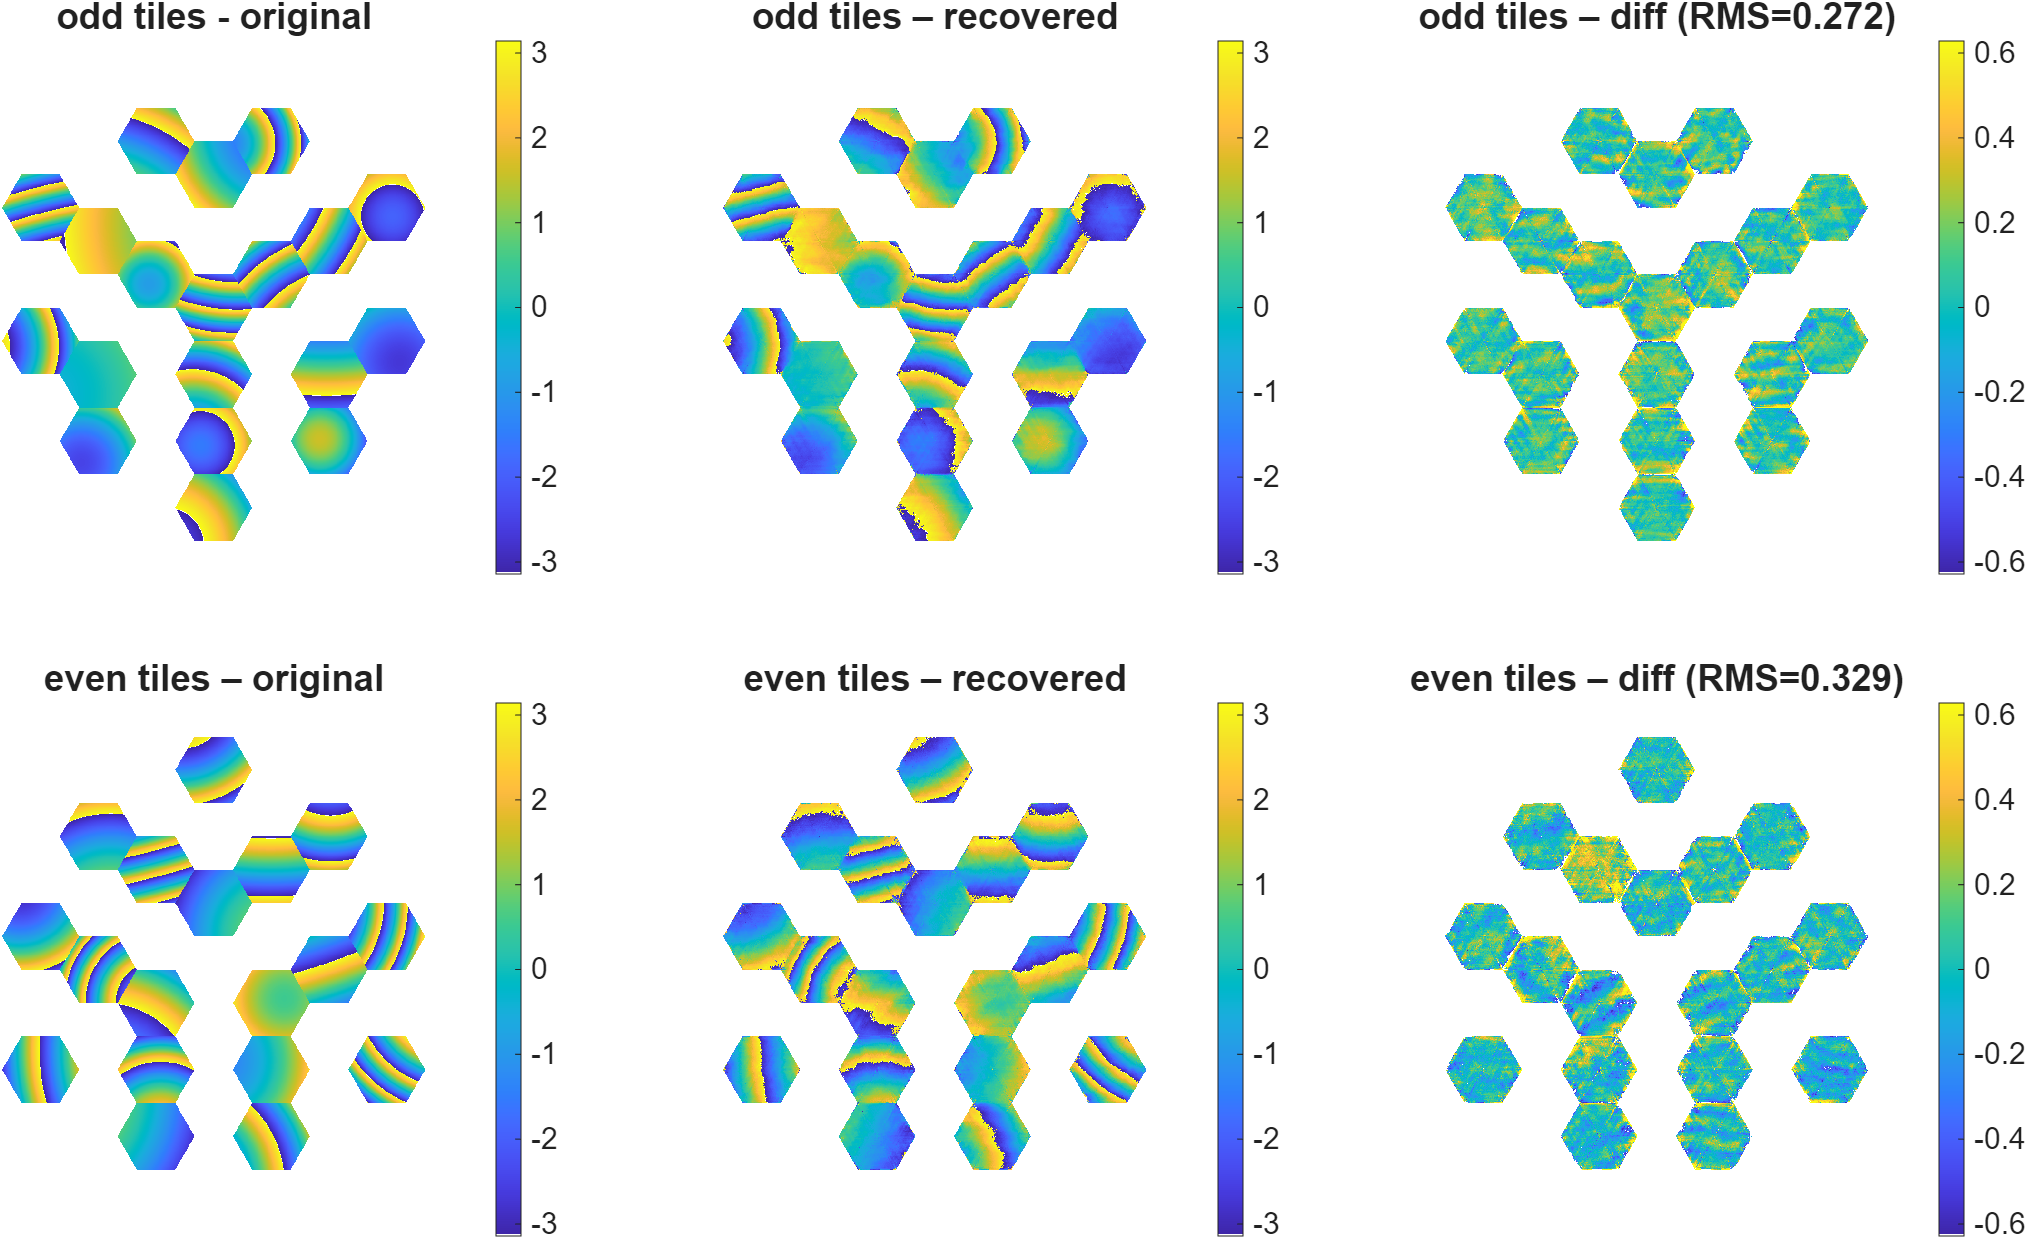
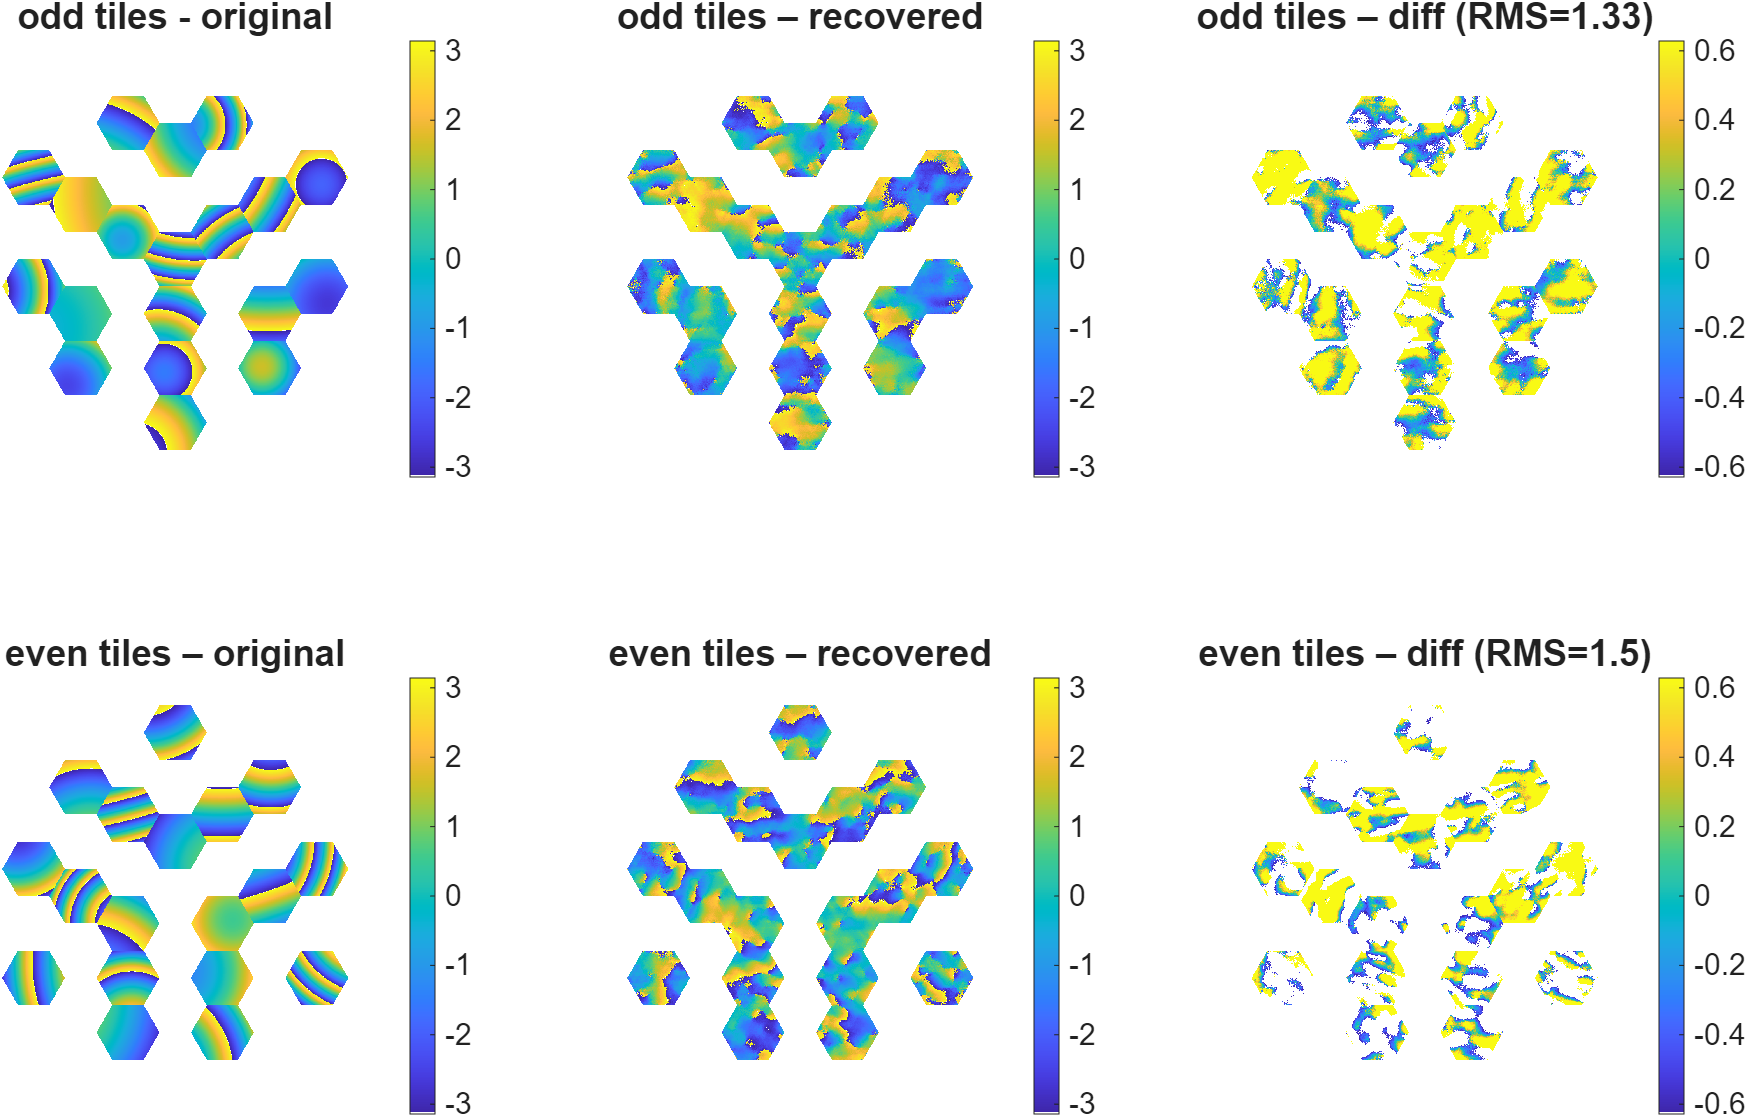
updated errors due to mirror size mistake

diff --git a/DBFH_two_tiles_loop_noise.m b/DBFH_two_tiles_loop_noise.m
@@ -14,7 +14,7 @@ img_res = 2^11;
 seg_px  = 140;     % flat-to-flat pixels per hex TODO: why only 140 works?
 f0_m    = 120;     % focal length [m]
 fft_res = img_res;    % PSF FFT size
-seg_flat_diam_m = 6; % mirror size [m]
+seg_flat_diam_m = 1; % mirror size [m]
 lambda = 550e-9;
 k = 2*pi/lambda;
 Rm = seg_flat_diam_m/sqrt(3);
@@ -30,8 +30,8 @@ segments = make_segments(img_res, seg_px, f0_m);
 %% add nontrivial phases to the segments
 % pre-phasing tolerances:
 sigma_opd_nm = 200; % nm
-sigma_tilt_nrad = 50; % nrad
-sigma_defocus_um = 5*50; % um
+sigma_tilt_nrad = 6*50; % nrad
+sigma_defocus_um = 36*5*50; % um
 
 [piston_std, tilt_std, defocus_std] = stds_for_scramble(lambda, Rm, f0_m, ...
     sigma_opd_nm, sigma_tilt_nrad, sigma_defocus_um);
@@ -118,23 +118,27 @@ Rpx = segments.meta.seg_flat_diam_px / sqrt(3);
 peak_intensity_vec = 10.^[2:8];
 sim_to_e = peak_intensity_vec ./ max(I12(:)); % scaling factor to move from simulation counts to realistic electron count-per-pixel
 
+g = gpuDevice;
+I1g = gpuArray(I1); I2g = gpuArray(I2); I12g = gpuArray(I12); I12pg = gpuArray(I12p);
 
-for ind_peak_instenisty = numel(peak_intensity_vec):-1:1
+for ind_peak_instenisty = 1:numel(peak_intensity_vec)
 
+    %% this iteration
     this_sim_to_e = sim_to_e(ind_peak_instenisty);
-    
-    I1_noisy = add_jwst_noise(this_sim_to_e*I1, 1,'dark_rate_e',0,'read_noise_e', 0,'n_groups', 1,'bg_rate_e', 0);
-    I2_noisy = add_jwst_noise(this_sim_to_e*I2, 1,'dark_rate_e',0,'read_noise_e', 0,'n_groups', 1,'bg_rate_e', 0);
-    I12_noisy = add_jwst_noise(this_sim_to_e*I12, 1,'dark_rate_e',0,'read_noise_e', 0,'n_groups', 1,'bg_rate_e', 0);
-    I12p_noisy = add_jwst_noise(this_sim_to_e*I12p, 1,'dark_rate_e',0,'read_noise_e', 0,'n_groups', 1,'bg_rate_e', 0);
+    % find adequate noise condition
+    I1_noisy = add_jwst_noise(this_sim_to_e*I1g, 1,'dark_rate_e',0,'read_noise_e', 0,'n_groups', 1,'bg_rate_e', 0,'seed',2);
+    I2_noisy = add_jwst_noise(this_sim_to_e*I2g, 1,'dark_rate_e',0,'read_noise_e', 0,'n_groups', 1,'bg_rate_e', 0,'seed',2);
+    I12_noisy = add_jwst_noise(this_sim_to_e*I12g, 1,'dark_rate_e',0,'read_noise_e', 0,'n_groups', 1,'bg_rate_e', 0,'seed',2);
+    I12p_noisy = add_jwst_noise(this_sim_to_e*I12pg, 1,'dark_rate_e',0,'read_noise_e', 0,'n_groups', 1,'bg_rate_e', 0,'seed',2);
 
     % Build |A|, |B|, S on the *centered* grid, then unshift to DFT layout
     prep = dbh_prepare_from_four_centered(I1_noisy, I2_noisy, I12_noisy, I12p_noisy, dtilt1, dtilt2, fft_res, Rpx);
 
     fprintf('max imag(I2_al) / max real(I2_al) = %.3g\n', ...
         max(abs(imag(prep.I2_al(:)))) / max(abs(real(prep.I2_al(:)))));
-    fprintf('rel. RMS of |S|-|A||B|: %.3g\n', ...
-        rms(abs(prep.S(:))-prep.magA(:).*prep.magB(:)) / mean(prep.magA(:).*prep.magB(:)));
+    noise_score = rms(abs(prep.S(:))-prep.magA(:).*prep.magB(:)) / mean(prep.magA(:).*prep.magB(:));
+    fprintf('rel. RMS of |S|-|A||B|: %.3g\n',noise_score);
+    [~,mean_noise_ind] = min(abs(noise_score - mean(noise_score)));
 
     % --- DBH inputs in DFT layout (unshifted) ---
     magA = ifftshift(prep.magA);           % |Â|
@@ -147,8 +151,8 @@ for ind_peak_instenisty = numel(peak_intensity_vec):-1:1
     subplot(1,3,3);imagesc(log(abs((prep.S))));title('log(abs((S)))');axis image ij off;
 
     % supports must be same size as magA/magB/S; center pad if needed
-    suppA = center_padcrop(M1, size(magA), false);
-    suppB = center_padcrop(M2, size(magA), false);
+    suppA = gpuArray(center_padcrop(M1, size(magA), false));
+    suppB = gpuArray(center_padcrop(M2, size(magA), false));
 
     % --- Build the linear system as operators (no huge explicit matrix) ---
     sys = dbh_prepare_system(magA, magB, S, suppA, suppB, 'lambda', 1e-3);
@@ -162,12 +166,12 @@ for ind_peak_instenisty = numel(peak_intensity_vec):-1:1
 
     assert(numel(bR) == 2*sys.m, 'bR must be length 2*m');
     assert(numel(x0) == 2*sys.n, 'x0 must be length 2*n');
-
+% x0 = xR;
     % --- Solve ---
     tic;
-    [xR,flag,relres,iter] = lsqr(Afun, bR, 1e-10, 1e5, [], [], x0);
+    [xR,flag,relres,iter] = lsqr(Afun, bR, 1e-10, 1e4, [], [], x0);
     solve_time = toc;
-
+%
     % Back to complex unknown on overlap K (phasor of B in frequency domain)
     zB = xR(1:sys.n) + 1i*xR(sys.n+1:end);
     zB = zB ./ max(abs(zB), 1e-12);   % (optional) unit-modulus projection
@@ -178,7 +182,7 @@ for ind_peak_instenisty = numel(peak_intensity_vec):-1:1
     den = max(magA.*magB, 1e-15);
     ZA(sys.K) = (S(sys.K) ./ den(sys.K)) .* zB;
 
-    %% --- Reconstruct pupil fields for the two tiles (DFT layout -> iFFT) ---
+    % --- Reconstruct pupil fields for the two tiles (DFT layout -> iFFT) ---
     Ahat_rec = magA .* ZA;      % Â_rec
     Bhat_rec = magB .* ZB;      % B̂_rec
     a_rec    = ifft2(Ahat_rec); % pupil field of tile 1 (complex)
@@ -208,30 +212,35 @@ for ind_peak_instenisty = numel(peak_intensity_vec):-1:1
     fprintf('RMS phase error (tile 1): %.3g rad\n', rms1(ind_peak_instenisty));
     fprintf('RMS phase error (tile 2): %.3g rad\n', rms2(ind_peak_instenisty));
 
-    %% --- errors ---
-    max_rms = max(rms1(ind_peak_instenisty),rms2(ind_peak_instenisty));
-    piston_error_rms_m(ind_peak_instenisty) =  max_rms/sqrt(sum(M1(:))) / (2*pi) * (lambda)
-    tilt_error_rms_rads(ind_peak_instenisty) =  2*max_rms*(lambda)/(2*pi)/sqrt(sum(M1(:)))/(seg_px/cosd(30)/2)
-    defocus_error_rms_m(ind_peak_instenisty) = 4*sqrt(12)*(f0_m/(seg_flat_diam_m/2))^2*(max_rms*(lambda)/(2*pi))/sqrt(sum(M1(:)))
+    % --- errors ---
+    max_rms(ind_peak_instenisty) = max(rms1(ind_peak_instenisty),rms2(ind_peak_instenisty));
+    piston_error_rms_m(ind_peak_instenisty) =  max_rms(ind_peak_instenisty)/sqrt(sum(M1(:))) / (2*pi) * (lambda)
+    tilt_error_rms_rads(ind_peak_instenisty) =  2*max_rms(ind_peak_instenisty)*(lambda)/(2*pi)/sqrt(sum(M1(:)))/(seg_flat_diam_m/2)
+    defocus_error_rms_m(ind_peak_instenisty) = 4*sqrt(12)*(f0_m/(seg_flat_diam_m/2))^2*(max_rms(ind_peak_instenisty)*(lambda)/(2*pi))/sqrt(sum(M1(:)))
 
 1
 end
 
+    % tilt_error_rms_rads =  2*max_rms*(lambda)/(2*pi)/sqrt(sum(M1(:)))/(seg_flat_diam_m/2)
+
+
+
 %% --- noise figure
 
 gem = orderedcolors("gem");
-max_rms = max([rms1;rms2],[],1);
+% max_rms = max([rms1;rms2],[],1);
 
 figure;
-subplot(4,1,1);loglog(SNR_vec,max_rms,'-o','LineWidth',2,'Color',gem(1,:));grid on;
-xlabel('SNR (unitless)');ylabel('\phi_{px} RMSE [rad]');
-subplot(4,1,2);loglog(SNR_vec,piston_error_rms_m,'-o','LineWidth',2,'Color',gem(2,:));grid on;
-xlabel('SNR (unitless)');ylabel('piston RMSE [m]');
-subplot(4,1,3);loglog(SNR_vec,tilt_error_rms_rads,'-o','LineWidth',2,'Color',gem(3,:));grid on;
-xlabel('SNR (unitless)');ylabel('tilt x/y RMSE [rad]');
-subplot(4,1,4);loglog(SNR_vec,defocus_error_rms_m,'-o','LineWidth',2,'Color',gem(4,:));grid on;
-xlabel('SNR (unitless)');ylabel('defocus RMSE [m]');
+subplot(4,1,1);loglog(peak_intensity_vec(1:numel(max_rms)),max_rms(1:end),'-o','LineWidth',2,'Color',gem(1,:));grid on;
+xlabel('peak intensity [e^{-}]');ylabel('\phi_{px} RMSE [rad]');
+subplot(4,1,2);loglog(peak_intensity_vec(1:numel(max_rms)),piston_error_rms_m(1:end),'-o','LineWidth',2,'Color',gem(2,:));grid on;
+xlabel('peak intensity [e^{-}]');ylabel('piston RMSE [m]');
+subplot(4,1,3);loglog(peak_intensity_vec(1:numel(max_rms)),tilt_error_rms_rads(1:end),'-o','LineWidth',2,'Color',gem(3,:));grid on;
+xlabel('peak intensity [e^{-}]');ylabel('tilt x/y RMSE [rad]');
+subplot(4,1,4);loglog(peak_intensity_vec(1:numel(max_rms)),defocus_error_rms_m(1:end),'-o','LineWidth',2,'Color',gem(4,:));grid on;
+xlabel('peak intensity [e^{-}]');ylabel('defocus RMSE [m]');
 
+exportgraphics(gcf,'figures\errors_vs_peak_intensity.png');
 
 %% --- Figure ---
 
@@ -287,6 +296,8 @@ xlim(ax6,xc_tile2+0.8*seg_px*[-1,1]);
 ylim(ax6,yc_tile2+0.8*seg_px*[-1,1]);
 
 exportgraphics(gcf,'figures\DBFH_tiles_3_8.png');
+
+% save('data\noisy_DBFH_workspace.mat',"-v7.3")
 
 
 %% --- end scripts ---

diff --git a/DBFH_two_tiles.m b/DBFH_two_tiles.m
@@ -14,7 +14,7 @@ img_res = 2^11;
 seg_px  = 140;     % flat-to-flat pixels per hex TODO: why only 140 works?
 f0_m    = 120;     % focal length [m]
 fft_res = img_res;    % PSF FFT size
-seg_flat_diam_m = 6; % mirror size [m]
+seg_flat_diam_m = 1 ; % mirror diameter = 6m which includes roughly 10 edges of hexagon => edge = 60cm => segment diameter 2*0.6*cosd(30) [m]
 lambda = 550e-9;
 k = 2*pi/lambda;
 Rm = seg_flat_diam_m/sqrt(3);
@@ -215,7 +215,7 @@ fprintf('RMS phase error (tile 2): %.3g rad\n', rms2);
 %% --- errors ---
 
 piston_error_rms_m =  max(rms1,rms2)/sqrt(sum(M1(:))) / (2*pi) * (lambda)
-tilt_error_rms_rads =  2*max(rms1,rms2)*(lambda)/(2*pi)/sqrt(sum(M1(:)))/(seg_px/cosd(30)/2) 
+tilt_error_rms_rads =  2*max(rms1,rms2)*(lambda)/(2*pi)/sqrt(sum(M1(:)))/(seg_flat_diam_m/2) 
 defocus_error_rms_m = 4*sqrt(12)*(f0_m/(seg_flat_diam_m/2))^2*(max(rms1,rms2)*(lambda)/(2*pi))/sqrt(sum(M1(:)))
 %% --- Figure ---
 
@@ -239,7 +239,7 @@ phi1r_0_stacked = mod(phi1r_0 - nan_mask_tile1.*nominal_unstacking_phase,2*pi);
 phi2r_0_stacked = mod(phi2r_0 - nan_mask_tile2.*nominal_unstacking_phase - phi_tilt_2,2*pi);
 
 cl1 = [0 2*pi];
-cl2 = 5e-2*[-pi pi];
+cl2 = 5e-1*[-pi pi];
 
 font_size = 16;
 
@@ -276,7 +276,7 @@ ylim(ax1,yc_tile1+0.8*seg_px*[-1,1]);
 xlim(ax6,xc_tile2+0.8*seg_px*[-1,1]);
 ylim(ax6,yc_tile2+0.8*seg_px*[-1,1]);
 
-exportgraphics(gcf,'figures\DBFH_tiles_3_8.png');
+% exportgraphics(gcf,'figures\DBFH_tiles_3_8.png');
 
 
 %% --- end scripts ---

diff --git a/add_jwst_noise.m b/add_jwst_noise.m
@@ -16,6 +16,7 @@ function noisy_e = add_jwst_noise(img_e, t_exp, opts)
         opts.read_noise_e (1,1) {mustBeNonnegative} = 12        % NIRCam default
         opts.n_groups (1,1) {mustBeInteger, mustBePositive} = 1
         opts.bg_rate_e (1,1) {mustBeNonnegative} = 0
+        opts.seed (1,1) = 1;
     end
 
     % expectation per pixel (electrons)
@@ -23,7 +24,8 @@ function noisy_e = add_jwst_noise(img_e, t_exp, opts)
 
     % Poisson shot noise
     % (Protect against extremely large values; cast to double afterwards)
-    noisy_poiss = double(poissrnd(mu));
+    rng(opts.seed);gpurng(opts.seed)
+    noisy_poiss = poissrnd(mu);
 
     % Effective read noise for UTR (simple 1/sqrt(N) rule of thumb)
     sigma_r_eff = opts.read_noise_e / sqrt(opts.n_groups);

diff --git a/make_segments.m b/make_segments.m
@@ -17,7 +17,7 @@ function segments = make_segments(img_res, seg_flat_diam_px, focal_length_m)
 
     %# ---- simulation constants (edit to your setup) ----
     lambda      = 550e-9;     % wavelength [m]
-    seg_flat_diam_m = 6; % mirror size [m]
+    seg_flat_diam_m = 1; % mirror size [m]
     pixel_pitch = seg_flat_diam_m/seg_flat_diam_px;      % pixel pitch [m/pixel]
 
     %# ---- hex geometry: flat-top layout ----
